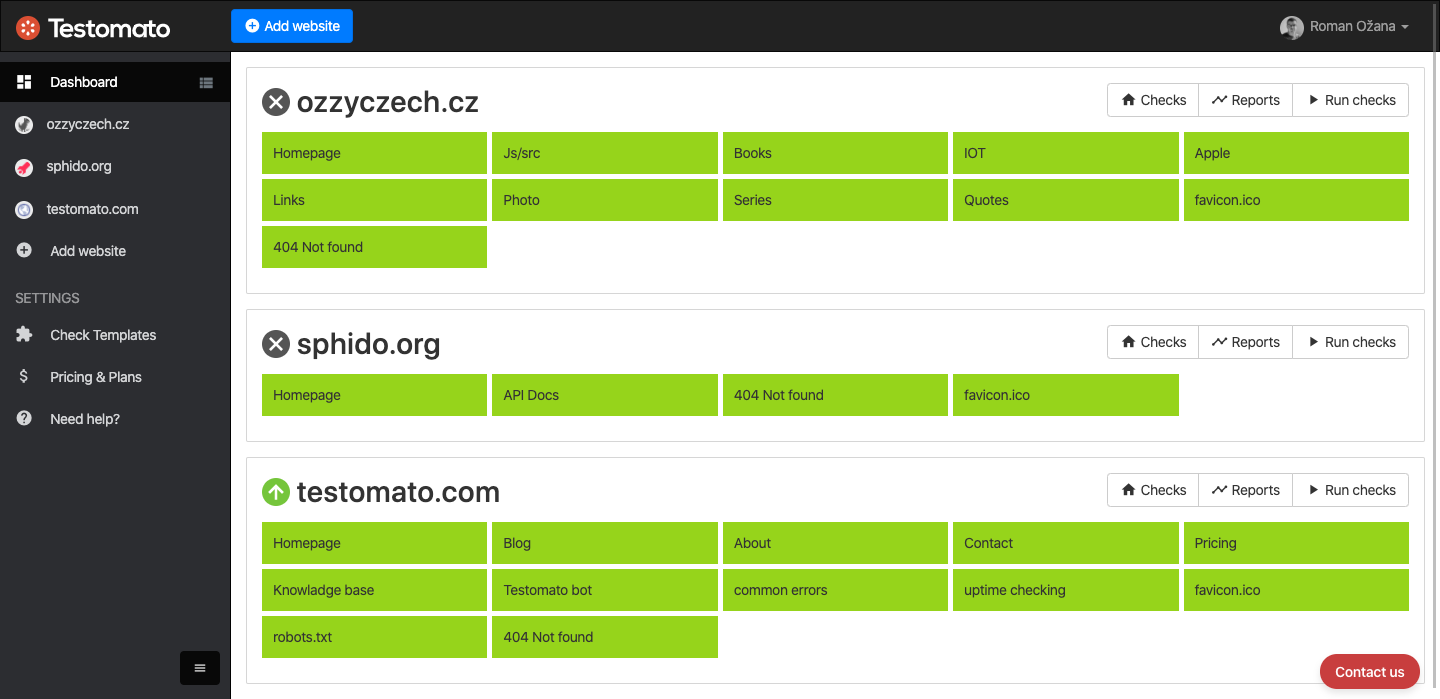
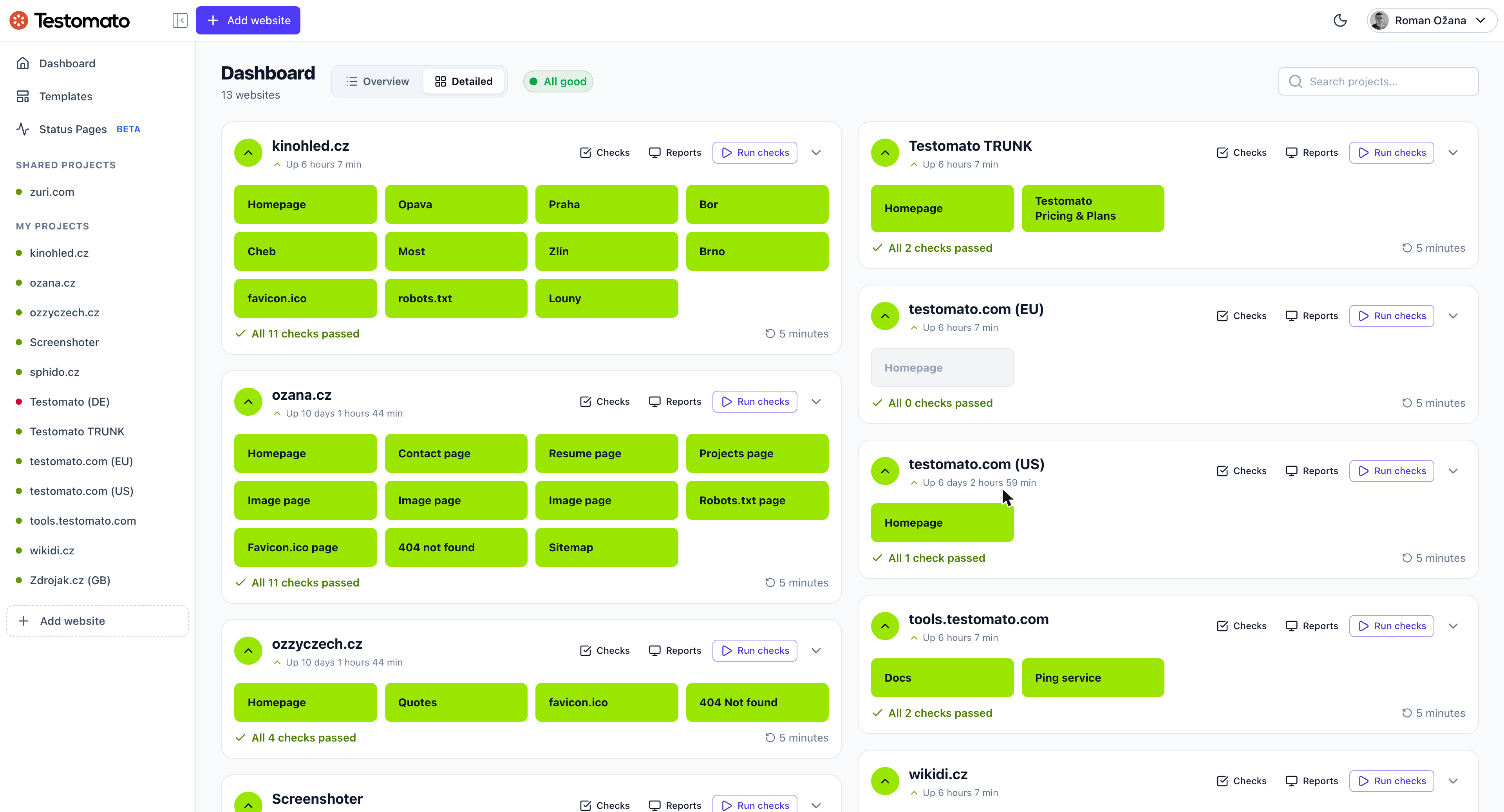
Update the dashboard screenshots and fix what they document
The screenshots were from the AngularJS dashboard; the app now has a sidebar,
an Overview/Detailed toggle and a two-column card grid, so nothing in the old
images matched. Recaptured from testomato.com/app/dashboard at 1920 wide (the
grid truncates project names below that) with the support chat bubble hidden.

The prose was further out of date than the images, so it moved too:

- "Compact mode" is the Overview/Detailed toggle next to the heading. Renamed
  the section and the screenshot to match, and described what Overview actually
  shows -- a row per project with its response time and trend.
- "4 possible colors" was wrong and conflated three states into grey.
  tileClass() in app/src/js/components/dashboard/project-status.ts has six:
  ok, error, warning, disabled, running and unknown, the last a dashed outline
  rather than grey. Warning means Testomato could not download the page, which
  matches what checks/notifications.md already says about warning alerts.
- Added the project-level summary line, and noted it carries an icon as well as
  a colour -- healthIcon() exists precisely so the state never relies on colour
  alone.

open-project.png is a clean crop for now. The original carried hand-drawn red
callout arrows, which a screenshot cannot reproduce.

diff --git a/src/content/docs/dashboard.md b/src/content/docs/dashboard.md
@@ -20,16 +20,25 @@ By clicking on **Project Name** or **Checks** button.
 
 ## Check colors
 
-There are only **4 possible colors** for check boxes:
+Each check is a box, coloured by the result of its last run:
 
 1.  **Green**: This page passed all checks.
 2.  **Red**: This page failed some checks.
-3.  **Orange**: This page timed out.
-4.  **Gray**: This page has not been configured yet, has been *turned
-    off*, or the results are not available.
+3.  **Orange**: Testomato could not download the page — usually a timeout.
+4.  **Gray**: The check has been *turned off*.
+5.  **Dashed outline**: The check is new and has not produced a result yet.
+6.  **Spinner**: The check is running right now.
 
-## Compact mode
+Under the boxes, each project sums its checks up as `All 11 checks passed`, or
+`1 failing · 2 warning of 20` when something needs attention. The figure carries
+an icon as well as a colour, so it stays readable if you don't distinguish the two.
 
-There is another mode called _compact_, this mode is useful for long projects.
+## Overview and Detailed
 
-![Dashboard Compact](/img/dashboard-compact.png)
+The toggle next to the **Dashboard** heading switches between two layouts.
+**Detailed** gives every check its own box — that is the view in the screenshots
+above. **Overview** collapses each project to a single row with its current
+response time and a response-time trend, which is the more useful one once you
+monitor a lot of sites.
+
+![Dashboard Overview](/img/dashboard-overview.png)
